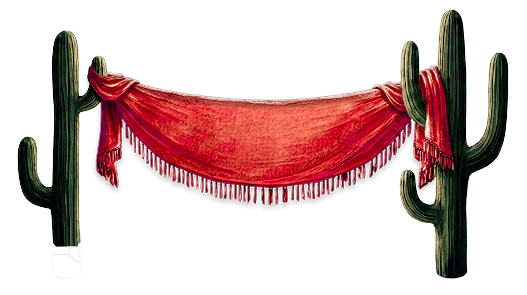
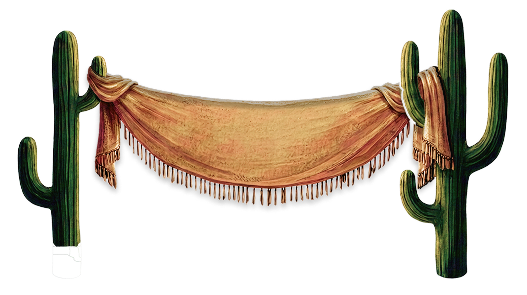
Register Button Shringar

Changed region(s): [[0.1214, 0.0305, 0.8805, 0.7017], [0.9108, 0.1831, 0.9412, 0.3966], [0.1214, 0.7627, 0.1518, 0.7932]]

diff --git a/src/styles/Home.module.scss b/src/styles/Home.module.scss
@@ -366,8 +366,25 @@
    overrides to actually win, move this block above the media query. */
 
 .regBtn {
+  /* ---------------------------------------------------------
+     CARPET LAYER NUDGE — edit these three, nothing else.
+
+     They are consumed by BOTH .regCarpetLayer and the ::after
+     shine mask below. Changing the image alone would slide the
+     artwork out from under its own mask and the light would stop
+     tracking the fabric, so both read the same values.
+
+     x / y are percentages of the button box (px works too).
+     scale is a multiplier around the box centre.
+     Override them inside a media query for per-breakpoint tweaks
+     — see the max-width: 577px block at the bottom of this file.
+     --------------------------------------------------------- */
+  --carpet-x: 1%;
+  --carpet-y: -12%;
+  --carpet-scale: 0.55;
+
   position: absolute;
-  bottom: 0%;
+  bottom: -2%;
   right: 2%;
   height: clamp(198px, 33vh, 356px);
   width: clamp(280px, 36vw, 800px);
@@ -387,7 +404,13 @@
   text-align: inherit;
   cursor: pointer;
 
+  /* Two stacked layers rebuild what used to be one image. Both are absolutely
+     positioned in the same box with the same object-fit, so as long as the two
+     PNGs were exported on a shared canvas they realign exactly. Without the
+     positioning they would flow one under the other and double the height. */
   img {
+    position: absolute;
+    inset: 0;
     width: 100%;
     height: 100%;
     object-fit: contain;
@@ -396,6 +419,18 @@
     pointer-events: none;
 
     transition: filter 0.25s ease;
+  }
+
+  .regCactusLayer {
+    z-index: 1;
+  }
+
+  .regCarpetLayer {
+    z-index: 2;
+
+    transform: translate(var(--carpet-x), var(--carpet-y))
+      scale(var(--carpet-scale));
+    transform-origin: center;
   }
 
   /* Desktop-only glow. This is the same drop-shadow the mobile `:active`
@@ -415,24 +450,24 @@
   /* ---------------------------------------------------------
      IDLE ATTENTION SWEEP
 
-     A band of light that travels across the cactus every few
-     seconds. The pseudo-element is masked by the same PNG the
-     <img> shows (passed in from Home.tsx as --reg-btn-mask), so
-     the light is clipped to the artwork's silhouette instead of
-     to the rectangular button box.
+     A band of light that crosses the carpet every few seconds.
+     The pseudo-element is masked by the carpet PNG (passed in
+     from Home.tsx as --reg-carpet-mask), so the light is clipped
+     to the fabric and never spills onto the cacti or the
+     transparent parts of the button box.
 
-     mask-size: contain mirrors the img's object-fit: contain in
+     mask-size: contain mirrors the layers' object-fit: contain in
      the same box, so mask and artwork line up exactly.
      --------------------------------------------------------- */
   &::after {
     content: "";
     position: absolute;
     inset: 0;
-    z-index: 5; /* above the <img>, below .regBtnText (z-index 10) */
+    z-index: 5; /* above both layers, below .regBtnText (z-index 10) */
     pointer-events: none;
 
-    -webkit-mask-image: var(--reg-btn-mask);
-    mask-image: var(--reg-btn-mask);
+    -webkit-mask-image: var(--reg-carpet-mask);
+    mask-image: var(--reg-carpet-mask);
     -webkit-mask-size: contain;
     mask-size: contain;
     -webkit-mask-position: center;
@@ -452,21 +487,14 @@
     mix-blend-mode: screen;
     opacity: 0;
 
-    animation: regBtnSweep 5s ease-in-out infinite;
+    /* Same transform as .regCarpetLayer, from the same variables, so the
+       mask follows the artwork wherever it is nudged to. */
+    transform: translate(var(--carpet-x), var(--carpet-y))
+      scale(var(--carpet-scale));
+    transform-origin: center;
+
+    animation: regBtnSweep 3s ease-in-out infinite;
   }
-
-  /* No mobile override for the mask box on purpose.
-
-     The `max-width: 750px` block does declare `img { width: 90%; height: 90% }`,
-     but that block sits ABOVE this one at equal specificity, so the 100%/100%
-     rule above wins there too — the mobile 90% never actually applies (same
-     dead-override situation the note at the top of this block describes).
-     The <img> is therefore full-box on every breakpoint, and `inset: 0` on the
-     mask is already correct everywhere.
-
-     If you ever move the mobile block below this one so its 90% sizing takes
-     effect, the mask has to shrink with it: `&::after { inset: 5%; }` inside a
-     `max-width: 750px` query, assuming the img stays centered. */
 
   &:focus-visible {
     outline: 2px solid #ffcf6b;
@@ -476,8 +504,8 @@
 
   .regBtnText {
     position: absolute;
-    top: 25%;
-    left: 14%;
+    top: 22%;
+    left: 15%;
     width: 72%;
     height: 55%;
     z-index: 10;
@@ -488,7 +516,7 @@
       font-family: "Ramadhan", sans-serif;
       font-size: 4px;
       letter-spacing: 1px;
-      fill: #FFD66B;
+      fill: #FFF6BA;
       stroke: none; // no stroke at all in base state — removes the thickness
       paint-order: fill;
 
@@ -526,23 +554,24 @@
    REGISTER BUTTON — IDLE SWEEP KEYFRAMES
 
    The band sits parked off the right edge for most of the cycle,
-   then crosses the artwork in the last ~30% (~1.5s of the 5s loop).
-   Change the animation-duration on .regBtn::after to space the
-   sweeps further apart; change the 70% stop to make the pause
-   longer or shorter relative to the crossing.
+   then crosses the carpet in the last ~30% (~1.5s of the 5s loop).
+
+   Timing lives here now, not in the SVG: animation-duration on
+   .regBtn::after sets the whole loop, and the 70% stop below sets
+   how much of it is pause versus crossing.
    ========================================================= */
 @keyframes regBtnSweep {
   0%,
-  70% {
+  25% {
     background-position: 115% 50%;
     opacity: 0;
   }
 
-  75% {
+  50% {
     opacity: 1;
   }
 
-  96% {
+  75% {
     background-position: -15% 50%;
     opacity: 1;
   }
@@ -577,9 +606,12 @@
 @media screen and (max-width: 577px) {
   .regBtn {
     scale: 1.2;
+    --carpet-x: 1%;
+    --carpet-y: -7%;
+    --carpet-scale: 0.75;
 
     .regBtnText {
-      top: 24%;
+      top: 21%;
     }
   }
 }

diff --git a/src/pages/Home.tsx b/src/pages/Home.tsx
@@ -17,7 +17,12 @@ import cloudThree from "../assets/cloudThree.svg";
 import Castle from "../assets/castlefinal2.png";
 import Moon from "../assets/Moon.png";
 import LogoOasis from "../assets/LogoOasisi.png";
-import RegBtn from "../assets/cactuschange.png";
+/* The register button artwork is split into two layers so the shine can be
+   masked to the carpet alone. Both files are expected to be exported on the
+   SAME canvas as the old cactuschange.png — that is what lets them stack at
+   inset: 0 and line back up into the original composition. */
+import RegCactus from "../assets/regCactus.png";
+import RegCarpet from "../assets/regCarpet.png";
 import Nav from "../components/Nav";
 import ShootingStars from "../components/ShootingStars";
 import camelLand from "../assets/camel1.svg";
@@ -1103,21 +1108,25 @@ export default function Home({
         <img src={LogoOasis} alt="Oasis" />
       </div>
 
-      {/* The idle sweep in Home.module.scss masks itself with the button image
-          so the light is clipped to the cactus silhouette. The URL is only
-          known after the bundler hashes the asset, hence the CSS variable. */}
+      {/* The shine in Home.module.scss masks itself with the carpet PNG so the
+          light is clipped to the fabric and never touches the cacti. The URL is
+          only known after the bundler hashes the asset, hence the CSS variable. */}
       <button
         type="button"
         className={styles.regBtn}
         aria-label="Register"
         style={
           {
-            "--reg-btn-mask": `url(${RegBtn})`,
+            "--reg-carpet-mask": `url(${RegCarpet})`,
           } as CSSProperties
         }
         onClick={() => navigateWithTransition("/register")}
       >
-        <img src={RegBtn} alt="" />
+        {/* Cacti sit behind. The carpet's tied ends drape in front of the arms
+            in the original artwork, so the carpet paints second. Swap the two
+            lines if your export has the overlap the other way round. */}
+        <img className={styles.regCactusLayer} src={RegCactus} alt="" />
+        <img className={styles.regCarpetLayer} src={RegCarpet} alt="" />
 
         <svg
           className={styles.regBtnText}
@@ -1134,7 +1143,6 @@ export default function Home({
             </textPath>
           </text>
         </svg>
-
       </button>
 
       <div

diff --git a/src/styles/ComingSoon.module.scss b/src/styles/ComingSoon.module.scss
@@ -145,6 +145,11 @@
     
   img {
     outline: none;
+    transition: all 0.3s ease;
+
+    &:hover {
+      filter: brightness(1.5);
+    }
   }
 }
 
